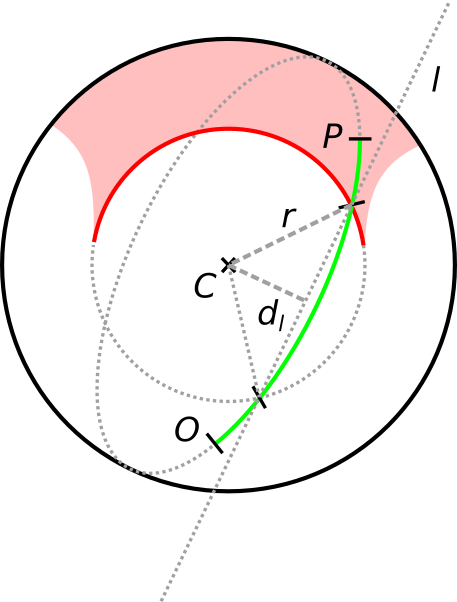
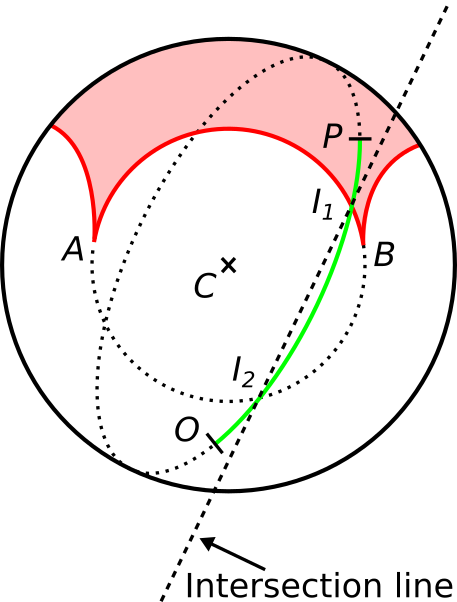
Revision of 5.1 and other parts

diff --git a/pvis2016/part/visualization.tex b/pvis2016/part/visualization.tex
@@ -1,34 +1,45 @@
 \section{Real-time Visualization} (0.5 page) (AJ, JP)
 \label{sec:vis}
-To enable our focus and context transparent rendering, we employ an A-buffer to acquire a list of participating fragments. These fragments represent three types of surface patches, computed in previous steps, analytically computed for a given ray. This is obtained via an analytical approach.
-\subsection{Rendering of spherical patches --- polygons?}
+
+To enable our focus and context transparent rendering, we employ an A-buffer to acquire a list of participating fragments.
+These fragments represent three types of surface patches, computed in previous steps, analytically computed for a given ray.
+This is obtained via an analytical approach.
+%We implemented the A-buffer using per-pixel linked lists~\cite{yang2010real}, since our main focus was on extending the CB algorithm to enable the extraction of different surface components.
+%The current A-buffer method can be easily swapped to benefit from, e.g., 
+
+\subsection{Rendering of spherical patches}
 \label{sec:spherical-patches}
-A sphere can produce one or more spherical patches which may form different surfaces.
-To be able to visualize isolated surfaces individually, we render (ray-cast) each spherical patch as a separate surface primitive.
-This way, we are able to visually distinguish between molecular and cavity surface and also among the detected cavities themselves.
-In fact, the sides of a spherical patch are formed by small circle arcs.
-When ray-casting a spherical patch, we firstly compute intersection points $I_1$ and $I_2$ of a ray and patch's sphere.
-Then, we employ the odd-even rule to test whether the computed intersections lie within the patch.
-We choose a point $O$ outside the patch and test lines (lying on a great circle) $OI_1$ and $OI_2$ for intersection with each side of the patch.
-The outside (or inside) point must be specified because both the interior and exterior surfaces of the sphere are finite.
+
+A sphere can form an arbitrary number of spherical patches which may lie in different surface components.
+To enable individual visualization of surface components, e.g., different coloring, transparency or visibility, we ray-cast each spherical patch as a separate surface primitive.
+This way, we are able to visually distinguish between different surface components.
+
+The sides of a spherical patch are formed by small circle arcs.
+We apply the odd-even rule for polygons \cite{shimrat1962algorithm} to test whether a point lies inside a patch.
+Firstly, we compute intersection points $P_{front}$ and $P_{back}$ of a ray with patch's sphere.
+We describe the point in patch test only for $P_{front}$ calling it $P$, as the same test is applied also to $P_{back}$.
+Before the application of the odd-even rule, we choose a point $O$ lying outside the patch.
+Then, we test line $OP$ (shortest path on a sphere) for intersection with each side (small circle arc) of the patch.
+The intersection of a line $OP$ with a small circle arc is computed in two steps (see Figure~\ref{fig:spherical-patch}):
+\begin{enumerate}
+  \item The intersection of the circles containing the line and the arc is computed --- they can intersect in 0 to 2 points.
+  \item The intersection points are tested whether they lie on the line and the arc.
+\end{enumerate}
+Finally, the number of intersections with all sides is summed and if it is even then the point lies inside the patch.
 
 \begin{figure}[htb]
   \centering
   \includegraphics[width=1.5in]{image/patch.png}
-  \caption{Point spherical patch test.}
+  \caption{Point in spherical patch test. The intersection $I_1$ lies on a intersection line between two planes containing arcs $OP$ and $AB$.}
+	\label{fig:spherical-patch}
 \end{figure}
 
-The intersection of a spherical segment with a small circle arc is computed in three steps:
-\begin{enumerate}
-  \item The intersection of the circles containing the segment and the arc is computed --- they can intersect in 0 to 2 points.
-  \item The intersection points are tested whether they lie on both the segment and the arc.
-  \item Cases with two intersections are marked as non-intersecting because the tested point lies outside the patch.
-\end{enumerate}
-
-\textcolor{red}{TODO: \textsc{http://horizon.documentation.ird.fr/exl-doc/pleins\_textes/pleins\_textes\_6/b\_fdi\_39-40/43404.pdf}}
+Differently from the planar case, the point $O$ has to be specified for the algorithm to be correct.
+Otherwise, we would count intersections of patch's sides with a great circle containing $P$.
+Then, the intersection count would be the same regardless of $P$ being inside or outside the patch, making the rule inapplicable.
 
 \subsection{Opacity Mapping}
-Borland~\cite{borland2011ambient} proposed to utilize ambient occlusion (AO) values to alter the opacity. Motivated by his approach, we exploit the ambient occlusion values as well. Since, we would like to maintain fast rendering performance, we need to remedy the issue of having an object space technique to evaluate the AO values. In the former work of Borland, the performance was not an important factor, which allows him to exploit the full object space AO evaluation. Here, we opted for the most recent approach, proposed by Grottel et al.~\cite{grottel}, which renders ambient occlusion values to a $3D$ grid containing an estimate of the volume area of atoms located inside a voxel. Although this approach only reflects the volume of atoms and not the molecular surface, we find it as a good trade off between the visual precision and the performance measure taking into consideration that these values are not employed directly, but as opacity modulators instead.
+Borland~\cite{borland2011ambient} proposed to utilize ambient occlusion (AO) values to alter the opacity. Motivated by his approach, we exploit the ambient occlusion values as well. Since, we would like to maintain fast rendering performance, we need to remedy the issue of having an object space technique to evaluate the AO values. In the former work of Borland, the performance was not an important factor, which allows him to exploit the full object space AO evaluation. Here, we opted for the most recent approach, proposed by Grottel et al.~\cite{grottel2012object}, which renders ambient occlusion values to a $3D$ grid containing an estimate of the volume area of atoms located inside a voxel. Although this approach only reflects the volume of atoms and not the molecular surface, we find it as a good trade off between the visual precision and the performance measure taking into consideration that these values are not employed directly, but as opacity modulators instead.
 	
 \begin{figure}[htb]
 \centering

diff --git a/pvis2016/part/introduction.tex b/pvis2016/part/introduction.tex
@@ -19,9 +19,9 @@ This is reached by introducing several enhancements (Fig.~\ref{fig:teaser}), suc
 
 More specifically, the main contributions of our solution are:
 \begin{itemize}
-  \item Enhanced computation of solvent-excluded surface (SES) of the molecule. We propose three new kernels that account for speedup of the existing state-of-the-art approach~\cite{todo}.
-  \item A novel real-time algorithm for the detection \textcolor{magenta}{extraction} of cavities. We present new fast cavity detection method that is based on solvent-excluded surface (SES).
-  \item Improved performance of visualization of transparent molecular surfaces~\cite{todo}. We describe our interactive focus and context visualization of cavities on the molecular surface.
+  \item Enhanced computation of solvent-excluded surface (SES) of the molecule. We propose three new kernels that account for \textcolor{red}{speedup of the existing state-of-the-art approach~\cite{krone2011parallel}}.
+  \item A novel real-time algorithm for the extraction of cavities. We present new fast cavity extraction method that is based on solvent-excluded surface (SES).
+  \item Improved performance of visualization of transparent molecular surfaces~\cite{kauker2013rendering}. We describe our interactive focus and context visualization of cavities within the molecule.
   
 \end{itemize}
 

diff --git a/pvis2016/part/oit4cb.tex b/pvis2016/part/oit4cb.tex
@@ -257,7 +257,7 @@ There can be two cases:
 
 The clipping of fragments in affected spherical patches can be done using a clipping plane or a visibility sphere of a torus.
 We use the latter approach, since visibility spheres for tori were already computed in a previous step of our technique.
-Here, our kernel writes a texture, similarly to Krone et al. \cite{krone2011parallel}, which stores for an atom sphere all its intersecting visibility spheres.
+Here, our kernel writes a texture, similarly to Krone et al.~\cite{krone2011parallel}, which stores for an atom sphere all its intersecting visibility spheres.
 When ray-casting spherical patches, we use this texture to lookup all visibility spheres and discard all fragments being inside them.
 
 %\begin{equation}
